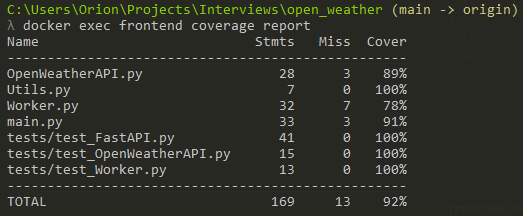
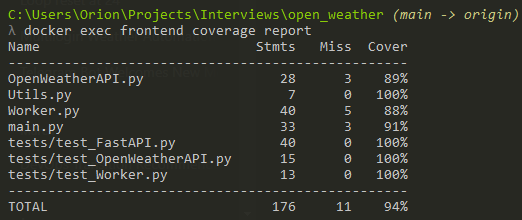
Final version (Ihope)

diff --git a/Worker.py b/Worker.py
@@ -10,13 +10,18 @@ celery.conf.result_backend = Utils.CELERY_RESULT_BACKEND
 class Worker(Task):
         
     @celery.task(bind=True)
-    def new_request(self, userId: str, testing: bool = False) -> None:
+    def new_request(self, userId: str, testing: bool = False) -> {}:
         
-        if(not testing):
+        try:
             self.update_state(state="PROCESSING", meta={"progress": 0})
+        except:
+            pass
         
         api = OpenWeatherAPI()
-        cities = Utils.CITY_IDS
+        if(testing):
+            cities = Utils.CITY_IDS_TEST
+        else:
+            cities = Utils.CITY_IDS
         time = datetime.now()
         data = {
             "userId": userId,
@@ -43,10 +48,14 @@ class Worker(Task):
                 "humidity": humidity
             })
             
-            if(not testing):
+            try:
                 self.update_state(state="PROCESSING", meta={"progress": ((idx+1)/len(cities))*100})
-        
-        if(not testing):
+            except:
+                pass
+            
+        try:
             self.update_state(state="PROCESSING", meta={"progress": 99})
-        
+        except:
+            pass
+                
         return {"result": "Task is done!", "progress": 100, "data": data}

diff --git a/tests/test_FastAPI.py b/tests/test_FastAPI.py
@@ -28,7 +28,8 @@ class TestFastAPI(unittest.TestCase):
     
     def test_3_newRequest(self):
         payload = {
-            "userId": self.USERID
+            "userId": self.USERID,
+            "testing": True
         }
         response = self.client.post("/", json=payload)
         json_response = response.json()["INFO"]
@@ -40,7 +41,6 @@ class TestFastAPI(unittest.TestCase):
         json_response = response.json()["INFO"]
         pattern = r"The request for this user is being processed\. Status = \d+%"
         self.assertRegex(json_response, pattern)
-        sleep(10)
         response = self.client.get(f"/{self.USERID}")
         json_response = response.json()["INFO"]
         pattern = r"Status = \d+%"

diff --git a/main.py b/main.py
@@ -27,8 +27,8 @@ async def new_user(data=Body(...)):
             task = worker.new_request.delay(userId, True)
         else:
             task = worker.new_request.delay(userId, False)
-            tasks[userId] = task.id
-            
+        
+        tasks[userId] = task.id
         return {"INFO": f"New request created with TaskID = {task.id}"}
     else:
         return {"INFO": "A request was already created for this User ID"}

diff --git a/README.md b/README.md
@@ -7,8 +7,8 @@
 2. Run the following command to build the docker images and start the containers:
 `docker compose up --build`
 
-3. On the command prompt, use cURL or equivalent to send a POST request to the API:
-`curl -i -X POST -H "Content-Type: application/json" -d "{"userId":"test"}" http://localhost:8000/`
+3. On the command prompt, use cURL or equivalent to send a POST request to the API (depending on your OS, you may need to escape the double-quotes in the json payload):
+`curl -i -X POST -H "Content-Type: application/json" -d "{"userId":"<userId>"}" http://localhost:8000/`
 
 4. Track user requests progress on `http://localhost:8000/<userId>`
 
@@ -16,7 +16,7 @@
 
 6. Review the test coverage: `docker exec frontend coverage report`
 # Test Coverage
-[![Test-Coverage.png](https://i.postimg.cc/PfVPgcJD/Test-Coverage.png)](https://postimg.cc/Lhf9fxz4)
+[![Test-Coverage.png](https://i.postimg.cc/TYxVt17w/Test-Coverage.png)](https://postimg.cc/F1PkRrQ5)
 
 # Resources used
 ### requests - https://pypi.org/project/requests/
@@ -29,7 +29,7 @@ Used to restore environment variables, as sensistive information, such as the ap
 This is used to handle asynchronous tasks and background jobs, allowing the application to perform long-running operations without blocking the main process. This way, users can still make new requests to the API without the need to wait synchronously the answer.
 ### uvicorn - https://www.uvicorn.org/
 This is an ASGI (Asynchronous Server Gateway Interface) server used to run the main Python web server.
-### httpx
+### httpx - https://www.python-httpx.org/
 This library is needed to run the unit test modules.
-### coverage
+### coverage - https://coverage.readthedocs.io/en/7.6.1/
 This library is used to run the unit tests and to calculate the coverage percentage of unit tests in this application.
